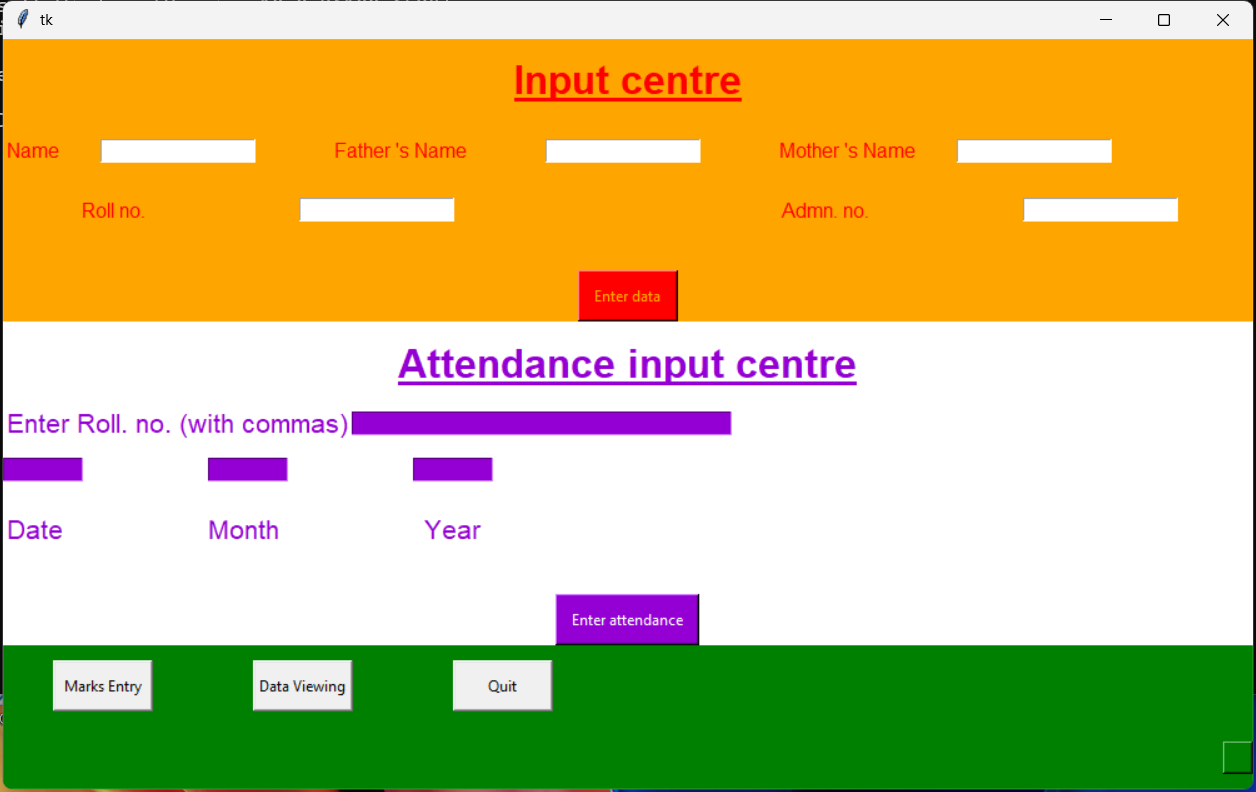
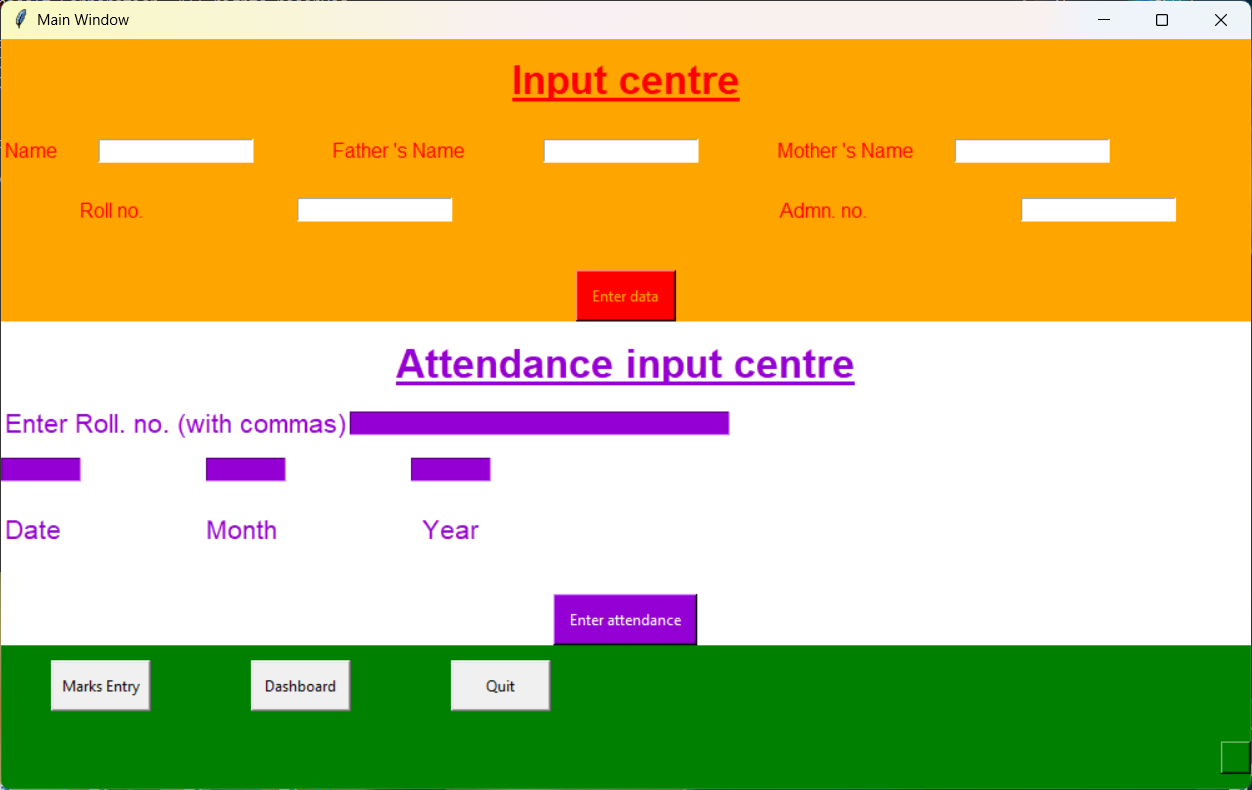
Debugging Database

diff --git a/output_window.py b/output_window.py
@@ -71,6 +71,10 @@ def TMF(name):
 #-----------------------------------------------------------------------------------
 def TD(name):
     wi = tk.Tk()
+    if name == "maintable":
+        wi.title("Main Table")
+    else:
+        wi.title(name.capitalize())
     L = tk.Label(wi , text = TMD(name) , font = ("Courier",12) )
     L.pack()
     def quit():
@@ -86,6 +90,7 @@ def ow():
     sql = mysql.cursor()
     #------------------------------------------------------------------------------------
     win = tk.Tk()
+    win.title("Dashboard")
     win.geometry("500x300")
     #------------------------------------------------------------------------------------
     F1 = tk.Frame(win , bg = "#FFA07A" )
@@ -143,6 +148,7 @@ def ow():
                 table.add_row(k)
         Table = table.draw()
         wi = tk.Tk()
+        wi.title("Attendance Record")
         L = tk.Label(wi , text = Table , font = ("Courier",12) )
         L.pack()
         def quit():
@@ -213,8 +219,10 @@ def ow():
         for i in data :
             table.add_row(i)
             mlt.plot(l[1:],i[1:], label = i[0])
+            mlt.title("Performance")
         Table = table.draw()
         wi = tk.Tk()
+        wi.title("Profile")
         for i in DL :
             L = tk.Label(wi , text = i )
             L.pack()
@@ -248,7 +256,7 @@ def ow():
 
     for i in buttons:
         z = i[0].lower()
-        j = tk.Button(F32 , text = i[0] , command = lambda : TD(z) , bg = "#FFD7BE" , fg = "#03A9F4" , font = ("Arial",10,"bold"))
+        j = tk.Button(F32 , text = i[0] , command = lambda z=z: TD(z) , bg = "#FFD7BE" , fg = "#03A9F4" , font = ("Arial",10,"bold"))
         j.pack(side = tk.LEFT , padx = 20 )
     #----------------------------------------------------------------------------------------------
     L = tk.Label(F33 , text = "Select the test which you want to analyse :- " , bg = "#FFD7BE" , fg = "#03A9F4" )
@@ -289,6 +297,7 @@ def ow():
             table.add_row(i)
         T = table.draw()
         wi = tk.Tk()
+        wi.title(f"{tes.capitalize()} Report")
         L = tk.Label(wi , text = T , font = ("Courier",12) )
         L.pack()
         def quit():
@@ -302,8 +311,8 @@ def ow():
 
     for i in buttons:
         z = i[0].lower()
-        i = tk.Button(F34 , text = i[0] , command = lambda : TA(z) , bg = "#FFD7BE" , fg = "#03A9F4" , font = ("Arial",10,"bold"))
-        i.pack(side = tk.LEFT , padx = 20 )
+        btn = tk.Button(F34 , text = i[0] , command = lambda z=z: TA(z) , bg = "#FFD7BE" , fg = "#03A9F4" , font = ("Arial",10,"bold"))
+        btn.pack(side = tk.LEFT , padx = 20 )
     #-------------------------------------------------------------------------------------------------
     def Back() :
         mysql.close()

diff --git a/main_window.py b/main_window.py
@@ -34,6 +34,7 @@ def mw():
 
     win = tk.Tk()
     win.geometry("1000x600")
+    win.title("Main Window")
     #-------------------------------------------------------------------------------
     F1 = tk.Frame(master = win , bg = "#FFA500")
     F1.pack(fill = "both" , expand = True )
@@ -254,7 +255,7 @@ def mw():
         win.destroy()
         output_window.ow()
     #----------------------------------------------------------------------------------
-    OW = tk.Button(master = F3u , text = "Data Viewing", command = output , width = 10 , height = 2 )
+    OW = tk.Button(master = F3u , text = "Dashboard", command = output , width = 10 , height = 2 )
     OW.pack(side = tk.LEFT , padx = 40)
     #---------------------------------------------------------------------------------
     def sd():

diff --git a/test_window.py b/test_window.py
@@ -23,6 +23,7 @@ def tw():
     #-------------------------------------------------------------------------------
 
     win = tk.Tk()
+    win.title("Marks Update")
     win.geometry("600x400")
     #---------------------------------------------------------------------------------------------------------------------
     def at():

diff --git a/main.py b/main.py
@@ -45,7 +45,7 @@ except Exception:
                 
                 c.execute("""
                 CREATE TABLE test (
-                    Testname VARCHAR(10),
+                    Testname VARCHAR(100),
                     Physics INT,
                     Chemistry INT,
                     Maths INT,

diff --git a/First_interface.py b/First_interface.py
@@ -12,11 +12,7 @@ application .
 At last but not the least we 'THANK YOU' all for using our application .
 """
 s2 ="""
-From  -
-       --> Abhinav Kumar
-   --> Utkarsh Nag
-            --> Tanisq Choudhary
-    --> Dhruv Kumar
+From Abhinav Kumar
 """
 
 def swagat():

diff --git a/new_test_window.py b/new_test_window.py
@@ -24,7 +24,7 @@ def ntw():
 
     win = tk.Tk()
     win.geometry("500x300")
-
+    win.title("Test Window")
 
     #---------------------------------------------------------------------------------------------------------------------
 
